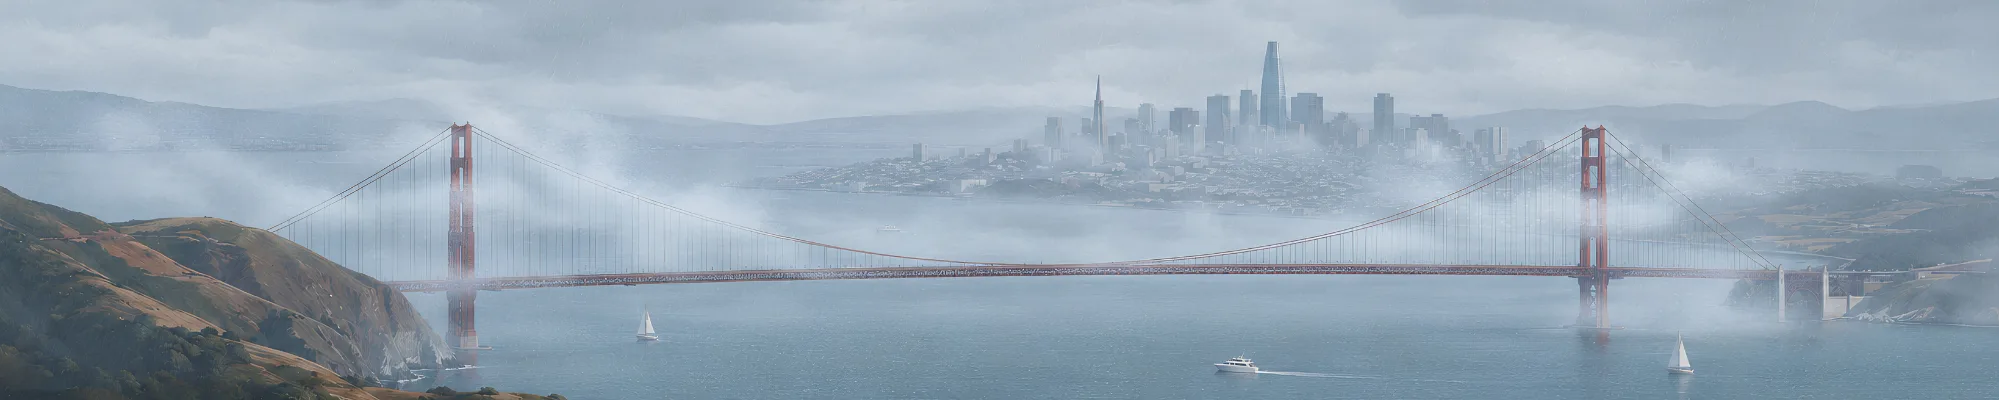
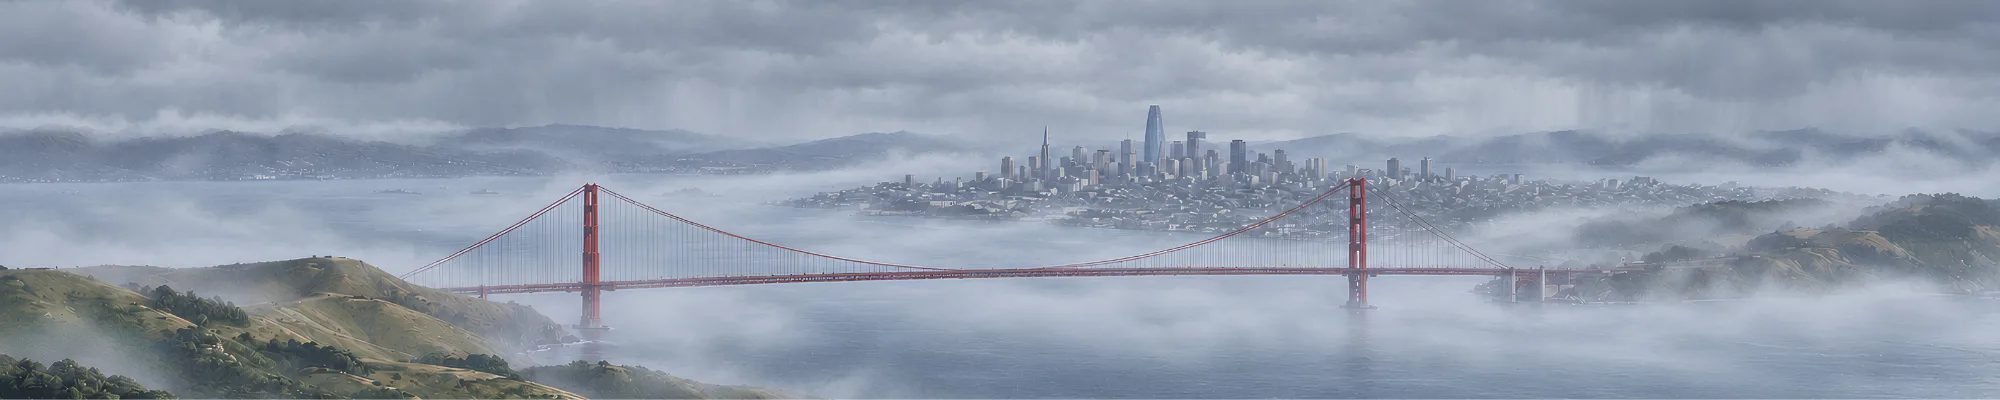
Second San Francisco pack, and a Golden Gate that moves in every scene
MASTHEAD-SANFRANCISCO-2 (Owner, 2026-09-04). The eight new 2000x400 frames
replace the seven-frame first pack (CloudyNight joins). The old WebPs and
archived PNGs are removed; the new ones were prepared with the usual script
and the sources archived under reference/masthead-scenes-source/.

Every motion coordinate was re-measured off the new frames. The viewpoint is
unchanged, and so is the crop (tallest feature at source row 104, well under
the 61 rows the default crop hides).

Night and cloudy night: window lights downtown, on the Marina, across the
East Bay and along the Marin coast road; RED aviation beacons on both tower
crowns (rgb 251,5,6 in the frame, so the city joins Hollywood on the red
tone); the deck's string of lights and two-way traffic on a rail fitted
through the roadway's measured run; each tower's reflection in the strait
and the city's soft wash on the bay; an aircraft; lightning and rainfall on
the cloudy night. Day and morning: fog rolling through the Gate at deck
height, the towers standing out of it; gulls in the sky over the East Bay
hills. Dawn to sunset: sun glitter twinkling on the measured light path off
the north pier, and a ferry on the Sausalito run crossing the bay behind the
bridge with a white wake by day and lamps by night. Golden hour: a lens
flare from a sun that is off-frame RIGHT, the mirror of Hollywood's.

Four small additions to the motion vocabulary made that possible, each
[…]

diff --git a/src/lib/mastheadCityScenes.js b/src/lib/mastheadCityScenes.js
@@ -346,32 +346,87 @@ export const CITY_MOTION = {
     aircraft: { y: 21, from: 97, to: 33, flight: 34 },
   },
   sanfrancisco: {
+    // MASTHEAD-SANFRANCISCO-2 (2026-09-04): the second San Francisco pack
+    // replaced the first, so EVERY coordinate here was re-measured off the new
+    // frames (scratchpad sfmeasure.mjs, default crop: the tallest feature is
+    // the Salesforce crown at source row 104, well under the 61 rows the
+    // bottom-anchored crop removes). All eight frames share one viewpoint, the
+    // Marin Headlands looking south-east over the Golden Gate to the city.
+    //
+    // Night: the downtown and Marina windows, the far East Bay shore under
+    // the greeting, and the lit coast road on the Marin side at right.
     lights: [
-      [63.9, 44.8], [71.4, 46.0], [61.3, 37.8], [74.2, 46.6], [70.9, 36.3],
-      [58.9, 37.2], [67.8, 35.7], [52.4, 34.2], [54.8, 35.4], [64.5, 37.8],
-      // MASTHEAD-LOCKSCREEN-1: the far shore across the bay at left. The
-      // left-third search also found the deck lights, which the bridge
-      // already carries; they are deliberately not repeated here.
-      [18.6, 24.8], [37.1, 25.1], [43.3, 24.8],
+      [97.8, 31.0], [86.9, 31.9], [70.3, 49.0], [49.5, 43.1], [44.6, 31.3],
+      [59.7, 44.3], [64.9, 41.6], [40.5, 31.9], [76.3, 48.4], [91.0, 31.3],
+      [55.8, 44.0], [86.9, 56.3], [52.0, 31.9], [57.3, 22.1], [45.9, 44.0],
+      [82.5, 34.8],
+      // The East Bay shore, left third.
+      [27.9, 32.7], [13.7, 33.9], [35.8, 31.3], [1.8, 34.8], [20.1, 33.0],
+      // The Marin coast road, right of the bridge's north pier.
+      [78.6, 60.8], [74.5, 69.6], [94.9, 68.1], [90.7, 69.0], [99.6, 67.6],
     ],
-    // Reflections sit below the city and stretch vertically with the swell.
+    // The two tower crowns carry aviation lights, painted RED in the Night
+    // frame (rgb 251,5,6 on the south tower, 248,55,48 on the north), so this
+    // city joins Hollywood on the red tone. Nothing else on the bridge is a
+    // beacon: the other red maxima are the International Orange paint.
+    beacons: [[29.8, 34.2], [68.2, 33.6]],
+    beaconTone: 'red',
+    // Reflections: each tower's column of light in the strait beneath it, and
+    // the city's soft wash on the bay between the bridge and the waterfront.
     water: [
-      [60.8, 86.1], [64.3, 86.7], [67.8, 85.3], [72.5, 86.4], [75.5, 86.4],
-      [78.5, 85.3], [82.0, 85.3], [88.0, 84.1], [93.1, 77.3],
+      [29.9, 75.5], [26.7, 82.3], [30.0, 87.6],
+      [67.8, 67.6], [67.8, 74.0], [67.5, 82.6], [68.3, 88.8], [63.9, 85.5],
+      [68.3, 50.2], [72.3, 53.4], [64.5, 51.0], [53.9, 50.2], [58.1, 55.8], [40.5, 55.8],
     ],
     bridge: {
-      // Measured along the deck, so the string carries the span's real sag.
+      // The deck string, measured light by light from the south approach to
+      // the north pier.
       lights: [
-        [22.0, 62.8], [24.8, 64.0], [28.4, 61.1], [31.3, 60.5], [34.2, 60.2],
-        [37.9, 59.6], [41.3, 59.3], [44.8, 59.0], [47.3, 58.7], [50.7, 59.9],
-        [55.3, 59.6], [59.0, 59.3], [69.3, 59.3], [73.5, 58.1], [78.3, 59.0],
-        [81.5, 58.4],
+        [21.1, 65.2], [23.2, 66.1], [25.5, 65.5], [31.3, 63.1], [33.5, 62.5],
+        [35.4, 63.4], [38.3, 62.0], [40.5, 61.4], [43.5, 61.1], [47.0, 60.2],
+        [51.3, 61.1], [53.8, 59.3], [58.0, 59.6], [60.5, 59.6], [62.5, 59.3],
+        [66.3, 59.6], [70.0, 59.6], [73.7, 59.9], [76.4, 60.5],
       ],
-      // The deck as a line: start point, span, and rise across it. Traffic
-      // rides this rather than a flat row, or it drifts off the roadway by
-      // several pixels at the ends.
-      deck: { x: 22.0, y: 62.8, w: 59.5, rise: -4.4 },
+      // The roadway is not quite one line here: it climbs from the south
+      // approach to mid-span and runs level to the north pier (per-column
+      // trace: 65.2 at x21, 62.8 at x39, 60.5 from x55 on). One rail fitted
+      // through the whole run stays within 1.5% of the deck everywhere, about
+      // three pixels on a wide card, under a 2px trail; the cost of a second
+      // rail would be cars vanishing at the joint.
+      deck: { x: 21.1, y: 64.6, w: 55.3, rise: -4.5 },
     },
+    // Clear sky to card y 12% everywhere: the crown is the only thing above.
+    aircraft: { y: 8, from: 2, to: 62, flight: 40 },
+    // Gulls in the open sky above the East Bay hills (the hills begin at card
+    // y 17%). Over the bay they vanished against the waterfront's buildings.
+    birds: { y: 10, from: 98, to: 40, flight: 34, count: 5 },
+    helicopter: { y: 44, from: 96, to: 42, flight: 46 },
+    // The Golden Gate's fog: a band at deck height and below, so the towers
+    // stand out of it. Tone 'fog' is white-blue, not the basin's warm smog.
+    haze: { y: 60, height: 22 },
+    hazeTone: 'fog',
+    // The golden-hour sun is OFF-FRAME RIGHT here (sky brightest at the right
+    // edge, card y 40%; sky column means rise from 155 at left to 193 at
+    // right), the mirror of Hollywood. The flare layer flips for it and the
+    // ghosts land on the strait and the headland at left.
+    flare: { x: 106, y: 40 },
+    rainfall: true,
+    // A ferry on the Sausalito run, crossing the bay behind the bridge. Slow
+    // and continuous rather than a rare crossing: it is what that water does.
+    // Its lane is the strip of water between the waterfront (which reaches
+    // card y 50% east of x 58%) and the deck (y 60%): nothing else is water
+    // the whole way across.
+    ferry: { y: 56, from: 46, to: 80, flight: 130 },
+    // Sun glitter on the strait. Measured as the pale local maxima the
+    // Morning, Golden Hour and Sunset frames share south-east of the north
+    // pier, where the light path lies; the Day frame's water is flat and its
+    // only pale maxima are the beach surf, so these twinkle in Day too but
+    // over the same measured patch, not over invented water.
+    glints: [
+      [65.3, 70.5], [71.5, 66.1], [71.2, 74.0], [72.8, 73.5], [72.0, 83.5],
+      [73.4, 83.2], [74.6, 85.0], [79.7, 84.7], [78.0, 88.5], [81.3, 90.0],
+      [73.3, 93.2],
+    ],
   },
   newyork: {
     lights: [

diff --git a/src/index.css b/src/index.css
@@ -2370,6 +2370,110 @@ a.doc-file-link:hover { text-decoration: underline; }
   animation: mast-ghost 5.3s ease-in-out var(--dl, 0s) infinite alternate;
 }
 
+
+/* ── MASTHEAD-SANFRANCISCO-2: kinds the Golden Gate frames asked for. ── */
+
+/* A sun off-frame RIGHT. The flare is written for a sun at left; mirroring
+   the layer is the whole adaptation (the component reflects the sun's x
+   before placing the ghosts). The sway keyframe animates the separate
+   translate property, so it survives the transform. */
+.mast-motion-flare-right { transform: scaleX(-1); }
+
+/* Fog rather than smog: white-blue, and it takes no light away, so it sits
+   on screen blend like the things that are light. The band drifts on the
+   same keyframe as the haze. */
+.mast-motion-haze-fog {
+  /* Normal blend, not screen: fog is white and reads on a bright frame only
+     by covering it. Its own mask too: the smog mask fades the left half off
+     the greeting, but the fog's whole point is the south tower standing out
+     of it, and that tower is at x 30%. Feathered at the card edges only. */
+  mix-blend-mode: normal;
+  background: linear-gradient(90deg,
+    rgba(236,242,248,0) 0%, rgba(236,242,248,0.78) 10%, rgba(228,236,246,0.46) 24%,
+    rgba(240,245,250,0.84) 40%, rgba(230,238,246,0.42) 56%, rgba(238,244,250,0.76) 72%,
+    rgba(232,240,248,0.40) 86%, rgba(236,242,248,0) 100%);
+  -webkit-mask-image: linear-gradient(180deg, transparent 0, #000 30%, #000 70%, transparent 100%),
+    linear-gradient(90deg, transparent 4%, #000 14%, #000 86%, transparent 96%);
+  mask-image: linear-gradient(180deg, transparent 0, #000 30%, #000 70%, transparent 100%),
+    linear-gradient(90deg, transparent 4%, #000 14%, #000 86%, transparent 96%);
+  filter: blur(7px);
+}
+/* Fog is denser than smog and it is white on blue, so it runs on its own
+   opacity envelope; the drift is the haze's. Declared after the haze gate so
+   the later rule wins at equal specificity. */
+@keyframes mast-fog {
+  0%   { transform: translateX(0);    opacity: 0.62; }
+  50%  { transform: translateX(-7%);  opacity: 0.92; }
+  100% { transform: translateX(-13%); opacity: 0.58; }
+}
+.mast-scenic.mast-scene-day .mast-motion-haze-fog,
+.mast-scenic.mast-scene-morning .mast-motion-haze-fog {
+  animation: mast-fog 64s ease-in-out infinite alternate;
+}
+
+/* Ferry. The wrapper is a zero-size point that crosses once per cycle and
+   fades only at the two ends of its run. */
+.mast-motion-ferry { position: absolute; left: var(--from, 40%); opacity: 0; width: 0; height: 0; }
+.mast-motion-ferry-hull {
+  position: absolute; width: 6px; height: 2px; margin: -1px 0 0 -3px;
+  background: rgba(46,48,58,0.85); border-radius: 1px; opacity: 0;
+}
+/* The wake trails behind the direction of travel (the ferry sails right). */
+.mast-motion-ferry-wake {
+  position: absolute; width: 16px; height: 2px; margin: -1px 0 0 -18px;
+  mix-blend-mode: screen; opacity: 0; filter: blur(0.6px);
+  background: linear-gradient(270deg, rgba(255,255,255,0.75) 0%, rgba(255,255,255,0.28) 55%, transparent 100%);
+}
+.mast-motion-ferry-lamp {
+  position: absolute; width: 5px; height: 3px; margin: -1.5px 0 0 -2.5px;
+  mix-blend-mode: screen; opacity: 0; border-radius: 50%;
+  background: radial-gradient(circle, rgba(255,226,170,0.95) 0%, rgba(255,196,120,0.4) 45%, transparent 75%);
+}
+@keyframes mast-sail {
+  0%   { left: var(--from, 40%); opacity: 0; }
+  5%   { opacity: 1; }
+  95%  { opacity: 1; }
+  100% { left: var(--to, 80%); opacity: 0; }
+}
+.mast-scenic.mast-scene-dawn .mast-motion-ferry,
+.mast-scenic.mast-scene-morning .mast-motion-ferry,
+.mast-scenic.mast-scene-day .mast-motion-ferry,
+.mast-scenic.mast-scene-goldenhour .mast-motion-ferry,
+.mast-scenic.mast-scene-sunset .mast-motion-ferry,
+.mast-scenic.mast-scene-night .mast-motion-ferry {
+  animation: mast-sail var(--cycle, 130s) linear infinite;
+}
+.mast-scenic.mast-scene-dawn .mast-motion-ferry-hull,
+.mast-scenic.mast-scene-morning .mast-motion-ferry-hull,
+.mast-scenic.mast-scene-day .mast-motion-ferry-hull,
+.mast-scenic.mast-scene-goldenhour .mast-motion-ferry-hull,
+.mast-scenic.mast-scene-sunset .mast-motion-ferry-hull,
+.mast-scenic.mast-scene-dawn .mast-motion-ferry-wake,
+.mast-scenic.mast-scene-morning .mast-motion-ferry-wake,
+.mast-scenic.mast-scene-day .mast-motion-ferry-wake,
+.mast-scenic.mast-scene-goldenhour .mast-motion-ferry-wake,
+.mast-scenic.mast-scene-sunset .mast-motion-ferry-wake { opacity: 1; }
+.mast-scenic.mast-scene-night .mast-motion-ferry-lamp { opacity: 1; }
+
+/* Sun glitter on water. Short periods, and a sideways stretch as each speck
+   brightens: a facet of swell turning through the sun. */
+.mast-motion-glint {
+  position: absolute; width: 4px; height: 2px; margin: -1px 0 0 -2px;
+  border-radius: 50%; opacity: 0; mix-blend-mode: screen;
+  background: radial-gradient(ellipse, rgba(255,252,240,0.98) 0%, rgba(255,246,220,0.45) 45%, transparent 75%);
+}
+@keyframes mast-twinkle {
+  0%, 100% { opacity: 0;    transform: scaleX(0.6); }
+  50%      { opacity: 0.95; transform: scaleX(1.5); }
+}
+.mast-scenic.mast-scene-dawn .mast-motion-glint,
+.mast-scenic.mast-scene-morning .mast-motion-glint,
+.mast-scenic.mast-scene-day .mast-motion-glint,
+.mast-scenic.mast-scene-goldenhour .mast-motion-glint,
+.mast-scenic.mast-scene-sunset .mast-motion-glint {
+  animation: mast-twinkle var(--d, 2s) ease-in-out var(--dl, 0s) infinite;
+}
+
 /* Motion is decoration, so reduced motion removes it outright rather than
    slowing it down. The card is complete without it. */
 @media (prefers-reduced-motion: reduce) {

diff --git a/src/components/masthead/MastheadMotion.jsx b/src/components/masthead/MastheadMotion.jsx
@@ -101,8 +101,13 @@ export default function MastheadMotion({ city }) {
   const m = CITY_MOTION[city]
   if (!m) return null
   const { lights, beacons, beaconTone, aircraft, water, bridge, beam,
-    birds, haze, flare, helicopter, rainfall } = m
+    birds, haze, hazeTone, flare, helicopter, rainfall, ferry, glints } = m
   const beaconClass = `mast-motion-beacon${beaconTone === 'red' ? ' mast-motion-beacon-red' : ''}`
+  // MASTHEAD-SANFRANCISCO-2: a sun off-frame RIGHT. The flare geometry is
+  // written for a sun at left, so the layer is mirrored and the sun's x is
+  // reflected before the ghosts are placed; everything else is unchanged.
+  const flareRight = !!flare && flare.x > 50
+  const flareX = flareRight ? 100 - flare.x : flare?.x
   return (
     <div className="mast-motion" aria-hidden>
       {/* Two bolts on different periods, so the storm does not tick like a
@@ -125,7 +130,7 @@ export default function MastheadMotion({ city }) {
       )}
 
       {haze && (
-        <div className="mast-motion-haze"
+        <div className={`mast-motion-haze${hazeTone === 'fog' ? ' mast-motion-haze-fog' : ''}`}
           style={{ top: `${haze.y}%`, height: `${haze.height}%` }} />
       )}
 
@@ -180,12 +185,12 @@ export default function MastheadMotion({ city }) {
           is where the optics put them. The streak is anamorphic, horizontal
           from the sun, and fades with distance from it. */}
       {flare && (
-        <span className="mast-motion-flare">
+        <span className={`mast-motion-flare${flareRight ? ' mast-motion-flare-right' : ''}`}>
           <span className="mast-motion-flare-streak" style={{ top: `${flare.y}%` }} />
           {GHOSTS.map(({ t, size, alpha }) => (
             <span key={t} className="mast-motion-ghost"
               style={{
-                left: `${(flare.x + (50 - flare.x) * t).toFixed(1)}%`,
+                left: `${(flareX + (50 - flareX) * t).toFixed(1)}%`,
                 top: `${(flare.y + (50 - flare.y) * t).toFixed(1)}%`,
                 width: `${size}%`,
                 '--ghost-alpha': alpha,
@@ -194,6 +199,26 @@ export default function MastheadMotion({ city }) {
           ))}
         </span>
       )}
+
+      {/* A ferry: a dark hull with a white wake by day, two warm lights by
+          night. It runs its whole crossing on screen (no long empty gap like
+          the aircraft), because a ferry route is never empty for long. */}
+      {ferry && (
+        <span className="mast-motion-ferry"
+          style={{ top: `${ferry.y}%`, '--from': `${ferry.from}%`, '--to': `${ferry.to}%`, '--cycle': `${ferry.flight}s` }}>
+          <span className="mast-motion-ferry-wake" />
+          <span className="mast-motion-ferry-hull" />
+          <span className="mast-motion-ferry-lamp" />
+        </span>
+      )}
+
+      {/* Sun glitter: each speck sits on a measured pale maximum of the water
+          and twinkles on its own short period, stretching sideways as it
+          brightens, which is what a facet of swell does as it turns. */}
+      {glints?.map(([x, y], i) => (
+        <span key={`gl-${x}-${y}`} className="mast-motion-glint"
+          style={{ left: `${x}%`, top: `${y}%`, '--d': `${(period(i) * 0.45).toFixed(2)}s`, '--dl': stagger(i) }} />
+      ))}
 
       {water?.map(([x, y], i) => (
         <span key={`wt-${x}-${y}`} className="mast-motion-water"
